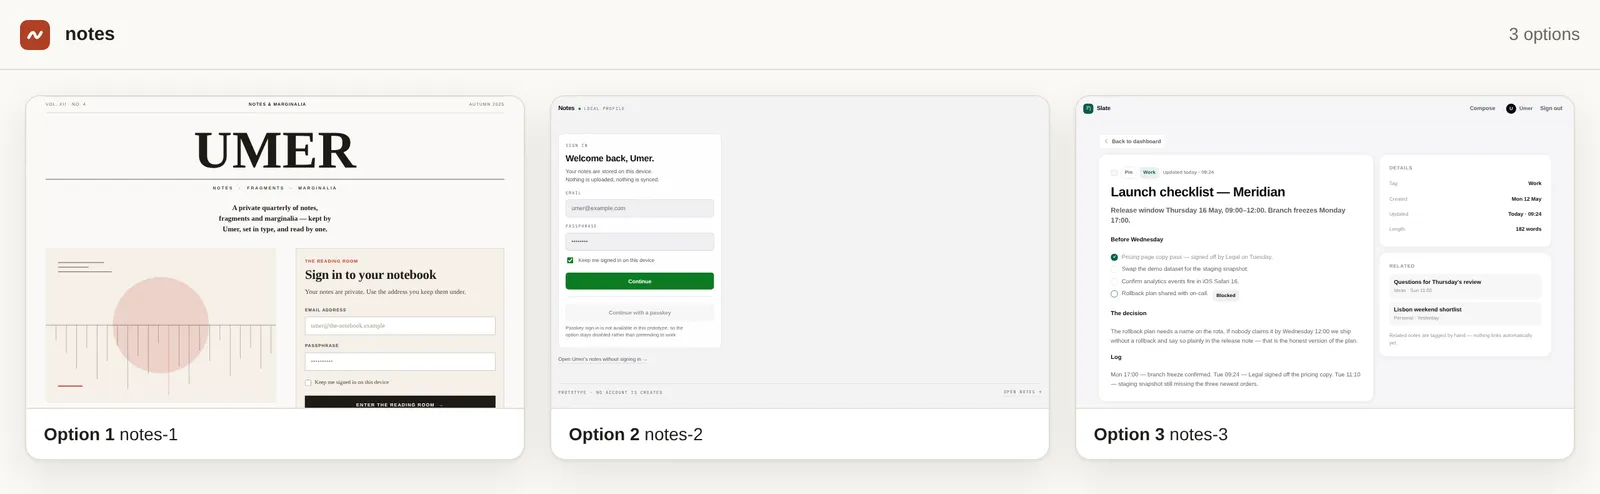
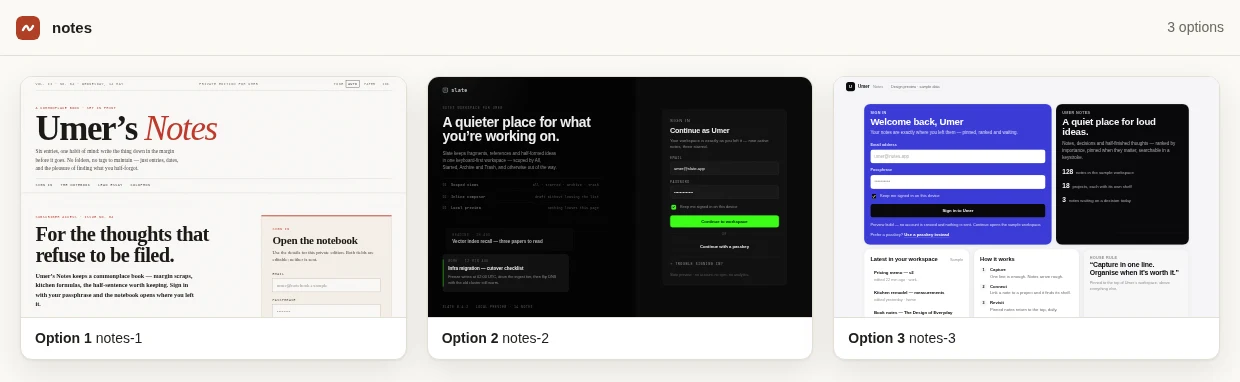
docs: hero and three-up from a fresh 0.2.4 run with named styles
The hero is option 1 (editorial) on the canvas, cropped to the canvas pane.
The grid shows the three named-style options from the same run, captured at
a width the cards fill. Captions now name the options that hit the turn cap.

diff --git a/docs/index.html b/docs/index.html
@@ -85,7 +85,7 @@
         <p class="audience">For developers and coding agents choosing a direction before writing app code.</p>
       </div>
       <figure>
-        <a href="media/hero.webp" aria-label="Open the full-size First Draft screenshot"><img class="shot" src="media/hero.webp" width="1400" height="1090" alt="First Draft's viewer showing one generated notes-app option at desktop width, with the Desktop and Phone switch, Fullscreen and Play"></a>
+        <a href="media/hero.webp" aria-label="Open the full-size First Draft screenshot"><img class="shot" src="media/hero.webp" width="1400" height="1034" alt="First Draft's viewer showing one generated notes-app option at desktop width, with the Desktop and Phone switch, Fullscreen and Play"></a>
         <figcaption>One option from a real notes-app run, open on the canvas.</figcaption>
       </figure>
     </section>
@@ -105,9 +105,9 @@
     </section>
     <section class="details" aria-labelledby="canvas-title">
       <h2 id="canvas-title">A design you can open. Not just a picture.</h2>
-      <p>Each option is a self-contained HTML file. Open one on the canvas at phone or desktop width, beside its options, comments and a brief for your next change, or take a closer look in Fullscreen or Play. Viewing needs no model call. Options 1 and 3 of this run of three hit the engine's turn cap, so they hold the screens written so far.</p>
+      <p>Each option is a self-contained HTML file. Open one on the canvas at phone or desktop width, beside its options, comments and a brief for your next change, or take a closer look in Fullscreen or Play. Viewing needs no model call. Options 2 and 3 of this run of three hit the engine's turn cap, so they hold the screens written so far.</p>
       <div class="screens">
-        <figure><img class="shot" src="media/grid.webp" width="1600" height="494" loading="lazy" alt="First Draft's grid of three notes-app options from one prompt, each in a different style"><figcaption>The grid: three options from one prompt, each in its own style.</figcaption></figure>
+        <figure><img class="shot" src="media/grid.webp" width="1240" height="382" loading="lazy" alt="First Draft's grid of three notes-app options from one prompt, each in a different style"><figcaption>The grid: three options from one prompt, each in its own style.</figcaption></figure>
         <figure><img class="shot" src="media/canvas-390.webp" width="390" height="844" loading="lazy" alt="The viewer in a 390px-wide window, with the option on a phone canvas"><figcaption>The same viewer in a 390px-wide window.</figcaption></figure>
       </div>
     </section>

diff --git a/README.md b/README.md
@@ -29,7 +29,7 @@ Replace `YOUR_MODEL` with a model your installed, signed-in Codex CLI supports. 
 
 <img src="docs/media/canvas-390.webp" width="200" alt="The viewer in a 390px-wide window: the option on a phone canvas">
 
-The screenshots come from one real run of `first-draft-axi make "A notes app for Umer with a sign-in screen and a notes dashboard" --count 3`, with no editing. Options 1 and 3 hit the engine's turn cap, and `make` said so: they hold the screens written so far. The large screenshot at the top is option 1. Generating needs your chosen model; viewing does not call it. These are prototypes, not production apps.
+The screenshots come from one real run of `first-draft-axi make "A notes app for Umer with a sign-in screen and a notes dashboard" --count 3` (first-draft-axi 0.2.4, no `--direction`, so each option took a different named style), with no editing. Options 2 and 3 hit the engine's turn cap, and `make` said so: they hold the screens written so far. The large screenshot at the top is option 1. Generating needs your chosen model; viewing does not call it. These are prototypes, not production apps.
 
 ## Models
 
